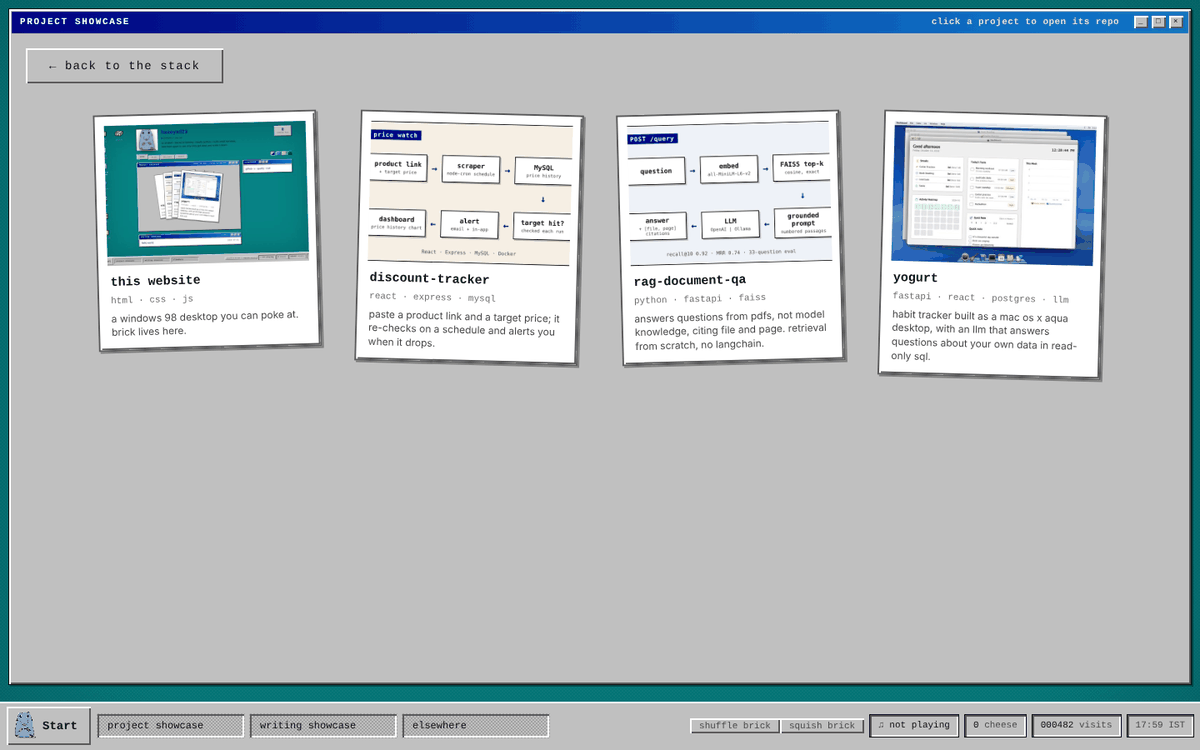
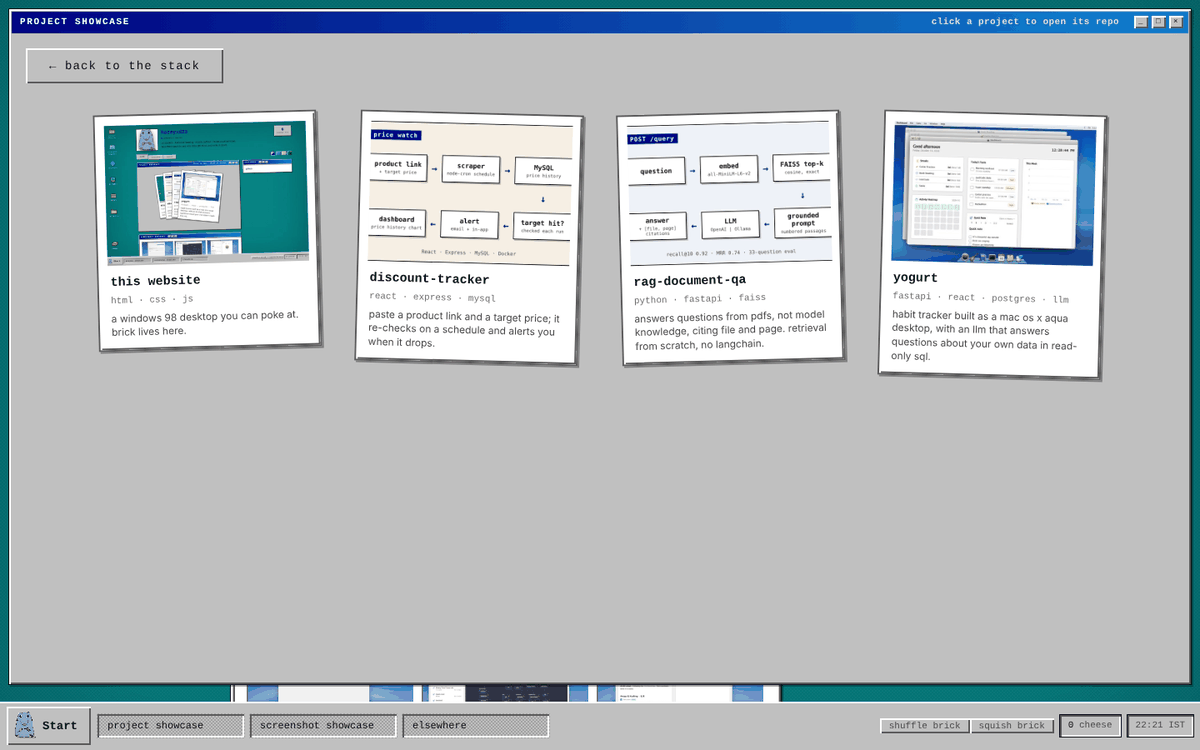
remove placeholders, retake the site's own card

diff --git a/js/app.js b/js/app.js
@@ -204,12 +204,12 @@ $('#latest').innerHTML = D.posts.slice(0, 4).map(postRow).join('')
   || `<div class="row"><span class="sub">no posts yet</span></div>`;
 $('#latestCount').textContent = `${Math.min(4, D.posts.length)} of ${D.posts.length}`;
 
-/* screenshot showcase: project screenshots if there are any, else photos.
+/* screenshot showcase: the project screenshots in D.screenshots.
    a tile with a url is a link to the full-size image */
 const tile = p => p.url
   ? `<a class="tile" href="${esc(p.url)}" target="_blank" rel="noopener" ${shot(p)}><span>${esc(p.caption||'')}</span></a>`
   : `<div class="tile" ${shot(p)}><span>${esc(p.caption||'')}</span></div>`;
-$('#homeShots').innerHTML = (D.screenshots || D.photos).slice(0, 6).map(tile).join('');
+$('#homeShots').innerHTML = (D.screenshots || []).slice(0, 6).map(tile).join('');
 
 /* sidebar */
 const specRows = () => D.specs.map(([k,v]) => `<div class="spec"><span>${esc(k)}</span><span>${esc(v)}</span></div>`).join('');
@@ -220,7 +220,7 @@ $('#links').innerHTML  = D.links.map(l => `<a href="${esc(l.url)}">${esc(l.name)
 const booksRead = D.books.read.length;
 $('#counts').innerHTML = `
   <div class="row"><span>projects</span><b>${D.projects.length}</b></div>
-  <div class="row"><span>posts</span><b>${D.posts.length}</b></div>
+  ${D.posts.length ? `<div class="row"><span>posts</span><b>${D.posts.length}</b></div>` : ''}
   <div class="row"><span>books read</span><b>${booksRead}</b></div>
   <div class="row"><span>things rated</span><b>${D.ratings.length}</b></div>
   <div class="row"><span>cheese fed to brick</span><b id="cheeseCount">0</b></div>`;
@@ -235,13 +235,19 @@ function renderPosts(tag='all'){
 }
 renderPosts();
 
+/* Nothing published yet: hide the blog everywhere — its tab, its page, and
+   the writing window on the desktop — rather than show an empty one. It all
+   comes back by itself once build.py has a non-draft post to list. */
+if (!D.posts.length){
+  $('.tab[data-page="blog"]')?.remove();
+  $('#blog')?.remove();
+  $('#latest')?.closest('.show')?.remove();
+}
+
 /* ---------------- gallery ---------------- */
-function renderGallery(view='photos'){
+function renderGallery(view='bookshelf'){
   const box = $('#galleryBody'), hd = $('#galleryHd');
-  if (view === 'photos'){
-    hd.textContent = 'photos';
-    box.innerHTML = `<div class="bd"><div class="tiles wide">${D.photos.map(tile).join('')}</div></div>`;
-  } else if (view === 'bookshelf'){
+  if (view === 'bookshelf'){
     hd.textContent = 'bookshelf';
     const group = (label, arr, extra=()=>'') => `
       <div class="shelf">${label}<span>${arr.length}</span></div>
@@ -260,12 +266,19 @@ function renderGallery(view='photos'){
 renderGallery();
 
 /* ---------------- about ---------------- */
+/* resume and email are optional in data.js; show whichever exist */
+const contact = () => {
+  const bits = [
+    D.profile.resume && `<a href="${esc(D.profile.resume)}">resume</a>`,
+    D.profile.email  && `<a href="mailto:${esc(D.profile.email)}">${esc(D.profile.email)}</a>`
+  ].filter(Boolean);
+  return bits.length ? `<p style="margin-top:14px">${bits.join(' · ')}</p>` : '';
+};
 function renderAbout(view='bio'){
   const box = $('#aboutBody');
   if (view === 'bio'){
     box.innerHTML = `
-      <div class="show" data-key="about"><div class="hd">bio</div><div class="bd">${esc(D.profile.bio)}
-        <p style="margin-top:14px"><a href="${esc(D.profile.resume)}">resume</a> · <a href="mailto:${esc(D.profile.email)}">${esc(D.profile.email)}</a></p></div></div>`;
+      <div class="show" data-key="about"><div class="hd">bio</div><div class="bd">${esc(D.profile.bio)}${contact()}</div></div>`;
   } else if (view === 'setup'){
     box.innerHTML = `<div class="show" data-key="about"><div class="hd">hardware</div><div class="bd">${specRows()}</div></div>`;
   } else if (view === 'tech'){
@@ -900,12 +913,16 @@ function renderDesk(){
   deskGrid = deskLayout();
   desk.classList.toggle('compact', deskGrid.compact);
   const present = narrow() ? [] : wins();
-  /* windows not in LEFT (blog, gallery, about) take the first free slots */
-  const taken = new Set([LEFT.indexOf('cheese'), ...present.map(w => LEFT.indexOf(keyOf(w)))]);
+  /* windows in LEFT keep LEFT's order but close up around any that aren't
+     there (no blog yet = no writing window, and no gap where it was); the
+     cheese keeps its own slot; windows not in LEFT (gallery, about) take the
+     first free slots */
+  const listed = LEFT.filter(k => k !== 'cheese' && present.some(w => keyOf(w) === k));
+  const taken = new Set([LEFT.indexOf('cheese'), ...listed.map((_, i) => i)]);
   let free = 0;
   present.forEach(w => {
     const name = titleOf(w), key = keyOf(w), shut = !!w.dataset.closed;
-    let slot = LEFT.indexOf(key);
+    let slot = listed.indexOf(key);
     if (slot < 0){ while (taken.has(free)) free++; slot = free++; }
     const ico = makeIcon(desk, {
       key, slot,
@@ -1167,7 +1184,7 @@ document.addEventListener('click', e => {
 const ctxTools = {
   home:    '<button class="tool" id="shuffle">shuffle brick</button>'
          + '<button class="tool" id="squish">squish brick</button>',
-  about:   `<a class="tool" href="${esc(D.profile.resume)}">resume</a>`
+  about:   D.profile.resume ? `<a class="tool" href="${esc(D.profile.resume)}">resume</a>` : ''
 };
 function go(id){
   $$('.tab').forEach(t => t.classList.toggle('on', t.dataset.page === id));
@@ -1186,7 +1203,7 @@ $$('.tab').forEach(t => t.onclick = () => go(t.dataset.page));
    desktop icons. With all seven open, every icon was already "open", so a
    double-click did nothing visible and people decided the icons were dead.
    Phones have no desktop icons, so there everything stays open. */
-const START_OPEN = ['project showcase', 'writing showcase', 'elsewhere'];
+const START_OPEN = ['project showcase', D.posts.length ? 'writing showcase' : 'screenshot showcase', 'elsewhere'];
 if (!narrow()) $$('#home .show').forEach(w => {
   if (START_OPEN.includes(titleOf(w))) return;
   w.dataset.closed = '1';
@@ -1205,8 +1222,6 @@ if ($$('.tab').some(t => t.dataset.page === fromHash)){
 }
 
 /* ---------------- toolbar ---------------- */
-$('#nowPlaying').textContent = D.toolbar.nowPlaying;
-$('#visits').textContent     = D.toolbar.visits;
 function tick(){
   $('#clock').textContent = new Date().toLocaleTimeString('en-GB',
     { timeZone:'Asia/Kolkata', hour:'2-digit', minute:'2-digit' }) + ' IST';

diff --git a/js/data.js b/js/data.js
@@ -10,11 +10,14 @@ window.DATA = {
     status: "currently online",
     blurb: "cs student · backend-leaning · mostly python. i build small services, take them apart to see why they got slow, and write it down.",
     // longer version, shown on the About tab
-    bio: `the longer version goes here. what you study, what you're building, what you
-          actually want to be doing. two or three short paragraphs is plenty — anyone
-          who wants more will click the resume.`,
-    resume: "#",
-    email: "you@example.com"
+    bio: `cs student. i build backends, mostly in python with fastapi, and i'm getting
+          into ai/ml: retrieval, local models, and getting llms to answer from real data
+          instead of guessing. the projects window has the work — a rag service that
+          cites file and page, a habit tracker whose llm answers questions in read-only
+          sql, and a price tracker that tells you when something drops.`,
+    /* optional — add either and it shows up on the About tab:
+       resume: "assets/resume.pdf",
+       email: "you@somewhere" */
   },
 
   /* ---- Home: the polaroid stack. add/remove freely, layout adapts ----
@@ -64,16 +67,6 @@ window.DATA = {
      file, then run `python3 build.py`. */
   posts: [],
 
-  /* ---- Gallery > photos. drop files in assets/ and set src ---- */
-  photos: [
-    { caption: "desk, 3am",      color: "#5fd8cf", src: "" },
-    { caption: "rice v4",        color: "#a97bd8", src: "" },
-    { caption: "keeb build",     color: "#ef7fb6", src: "" },
-    { caption: "delhi rooftop",  color: "#7ee0a0", src: "" },
-    { caption: "cat (not brick)",color: "#f7e08c", src: "" },
-    { caption: "monitor glow",   color: "#f6d7ef", src: "" }
-  ],
-
   /* ---- Gallery > bookshelf ---- */
   books: {
     reading: [ { title: "the pragmatic programmer", author: "hunt & thomas" } ],
@@ -93,15 +86,16 @@ window.DATA = {
     { kind: "film",  title: "whiplash",           score: 8, note: "" }
   ],
 
-  /* ---- About > setup ---- */
+  /* ---- About > setup (and the pc specs window) ---- */
   specs: [
-    ["cpu", "placeholder"],
-    ["gpu", "placeholder"],
-    ["ram", "placeholder"],
-    ["keyboard", "placeholder"],
-    ["monitor", "placeholder"],
+    ["cpu", "ryzen 5 5600x"],
+    ["gpu", "radeon rx 580 8gb"],
+    ["os", "cachyos"],
     ["wm", "hyprland"],
-    ["os", "cachyos"]
+    ["terminal", "kitty"],
+    ["browser", "zen"],
+    ["audio", "arturia minifuse 2"],
+    ["headphones", "ath-m50x"]
   ],
 
   /* ---- About > tech i like (the badges in the sidebar too) ---- */
@@ -122,15 +116,6 @@ window.DATA = {
 
   /* ---- link tree ---- */
   links: [
-    { name: "github",  url: "https://github.com/hazeyxd23" },
-    { name: "x",       url: "#" },
-    { name: "spotify", url: "#" },
-    { name: "mail",    url: "#" }
-  ],
-
-  /* ---- toolbar ---- */
-  toolbar: {
-    nowPlaying: "not playing",          // wire to a spotify widget later
-    visits: "000482"                     // swap for a real counter service
-  }
+    { name: "github",  url: "https://github.com/hazeyxd23" }
+  ]
 };

diff --git a/index.html b/index.html
@@ -94,8 +94,7 @@
   <!-- ===== GALLERY ===== -->
   <section class="page" id="gallery">
     <div class="chips" id="galleryChips">
-      <button class="chip on" data-view="photos">photos</button>
-      <button class="chip" data-view="bookshelf">bookshelf</button>
+      <button class="chip on" data-view="bookshelf">bookshelf</button>
       <button class="chip" data-view="anime">anime</button>
       <button class="chip" data-view="games">games</button>
       <button class="chip" data-view="film">film</button>
@@ -129,9 +128,7 @@
     <div class="tasks" id="tasks"></div>
     <div class="tray">
       <span id="ctx"></span>
-      <span class="fld">♫ <b id="nowPlaying"></b></span>
       <span class="fld"><b id="cheeseCount2">0</b> cheese</span>
-      <span class="fld"><b id="visits"></b> visits</span>
       <span class="fld" id="clock"></span>
     </div>
   </div>

diff --git a/css/style.css b/css/style.css
@@ -250,7 +250,6 @@ a:hover{color:var(--accent2)}
   color:var(--muted); border-bottom:1px dashed var(--muted)}
 .shelf:first-child{padding-top:10px}
 .shelf span{letter-spacing:0}
-.tiles.wide{grid-template-columns:repeat(4,1fr)}
 .tiles.shots .tile{aspect-ratio:16/10}      /* screenshots are 16:10, not square */
 
 /* ---------- project stack ---------- */
@@ -668,7 +667,7 @@ body.zoomed .show.squishwin{z-index:141}
   .pol .shot{height:122px}
   .pol .note{display:none}
   #brick{width:90px}
-  .tiles, .tiles.wide{grid-template-columns:repeat(2,1fr)}
+  .tiles{grid-template-columns:repeat(2,1fr)}
   /* the taskbar can't hold window buttons and the tray at phone width — the
      buttons squeezed to nothing. Windows are listed in Start instead. */
   .tasks{display:none}

diff --git a/js/posts.js b/js/posts.js
@@ -1,5 +1,5 @@
 /* GENERATED by build.py — do not edit by hand.
    Source of truth is posts/*.md. Runs after data.js. */
 window.DATA.posts = [
-  { title: "hello world", date: "2026-07-21", tags: ["notes"], url: "blog/hello-world.html" }
+
 ];

diff --git a/CREDITS.md b/CREDITS.md
@@ -5,20 +5,16 @@
 **Brick the mouse** — the three sprites in `assets/`: `brick-sit.png`,
 `brick-grab.png`, `brick-eat.png`.
 
-- **Artist:** _TODO — name_
-- **Link:** _TODO — their portfolio, post, or shop_
-- **Terms:** _TODO — what the artist allows_
-
-`brick-grab.png` carries the artist's signature. **That is deliberate and must
-not be edited out.** A signature baked into a PNG credits the artist but can't
-be followed to a name or a link, which is what this file is for — so please
-fill in the three lines above.
+These are someone else's artwork, used with credit. `brick-grab.png` carries
+the artist's signature, and **that is deliberate and must not be edited out** —
+it's how they're credited. I haven't traced the original post yet; when I do,
+their name and a link go here.
 
 **The squish clip** — `assets/brick-squish.mp4` (and a `.webm` copy for
 browsers without H.264), the "mmmh yes squishy rat" clip the squish button
 plays. The drawing in it is Brick, so the credit above covers that. Where the
-clip itself comes from, including the photo it's composited onto:
-_TODO — source and link_.
+clip itself was first posted, including the photo it's composited onto, isn't
+known yet.
 
 Everything else drawn on this site is original: the Windows 98 chrome, the
 desktop icons, the cheese block (drawn to match the cheese Brick is holding in

diff --git a/README.md b/README.md
@@ -9,8 +9,8 @@ My portfolio, built as a Windows 98 desktop you can poke at.
 Every panel is a real window: drag it, minimise it to the taskbar, maximise it,
 or close it and reopen it from its desktop icon or the Start menu. Click the
 project stack and the window grows to fill the screen, one card per repo.
-There's a blog, four themes, and Brick, a mouse you can drag around, feed
-cheese and squish.
+There are four themes, and Brick, a mouse you can drag around, feed cheese and
+squish.
 
 ![The projects window expanded, each card opening its repo](docs/projects.png)
 
@@ -46,6 +46,7 @@ python3 build.py               # after adding or editing a post in posts/
 To add a project, append an entry to `projects` in `js/data.js`. To add a post,
 write `posts/YYYY-MM-DD-slug.md` with a short frontmatter block (`title`,
 `date`, `tags`, and `draft: true` to keep it unpublished), then run the build.
+The Blog tab only appears once there's at least one published post.
 
 ## Credits
 

diff --git a/posts/2026-07-21-hello-world.md b/posts/2026-07-21-hello-world.md
@@ -3,6 +3,7 @@ title: hello world
 date: 2026-07-21
 tags: [notes]
 summary: the first post, and a working demo of every bit of markdown this blog supports.
+draft: true
 ---
 
 This is a starter post. **Rewrite it or delete it** — it exists so you can see the
